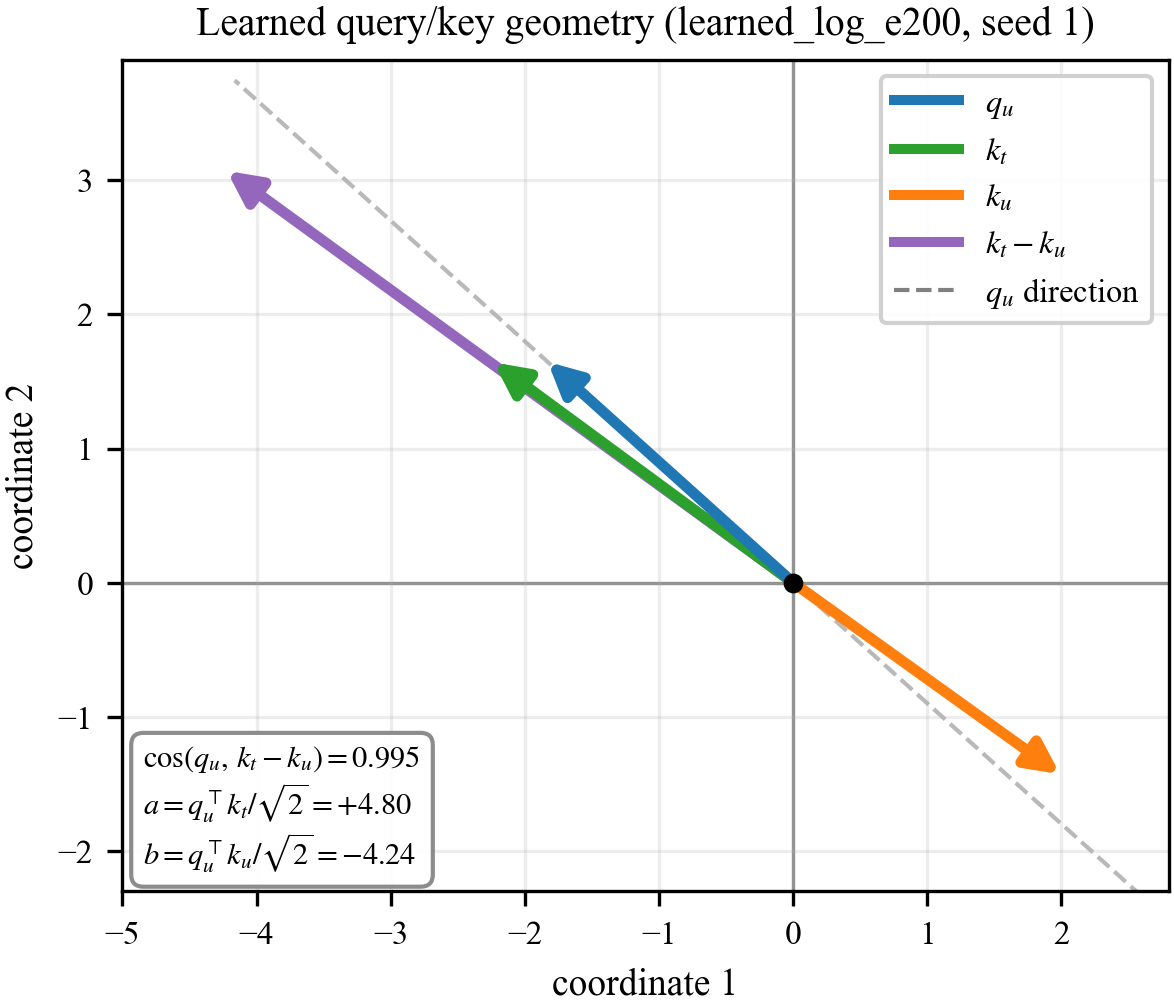
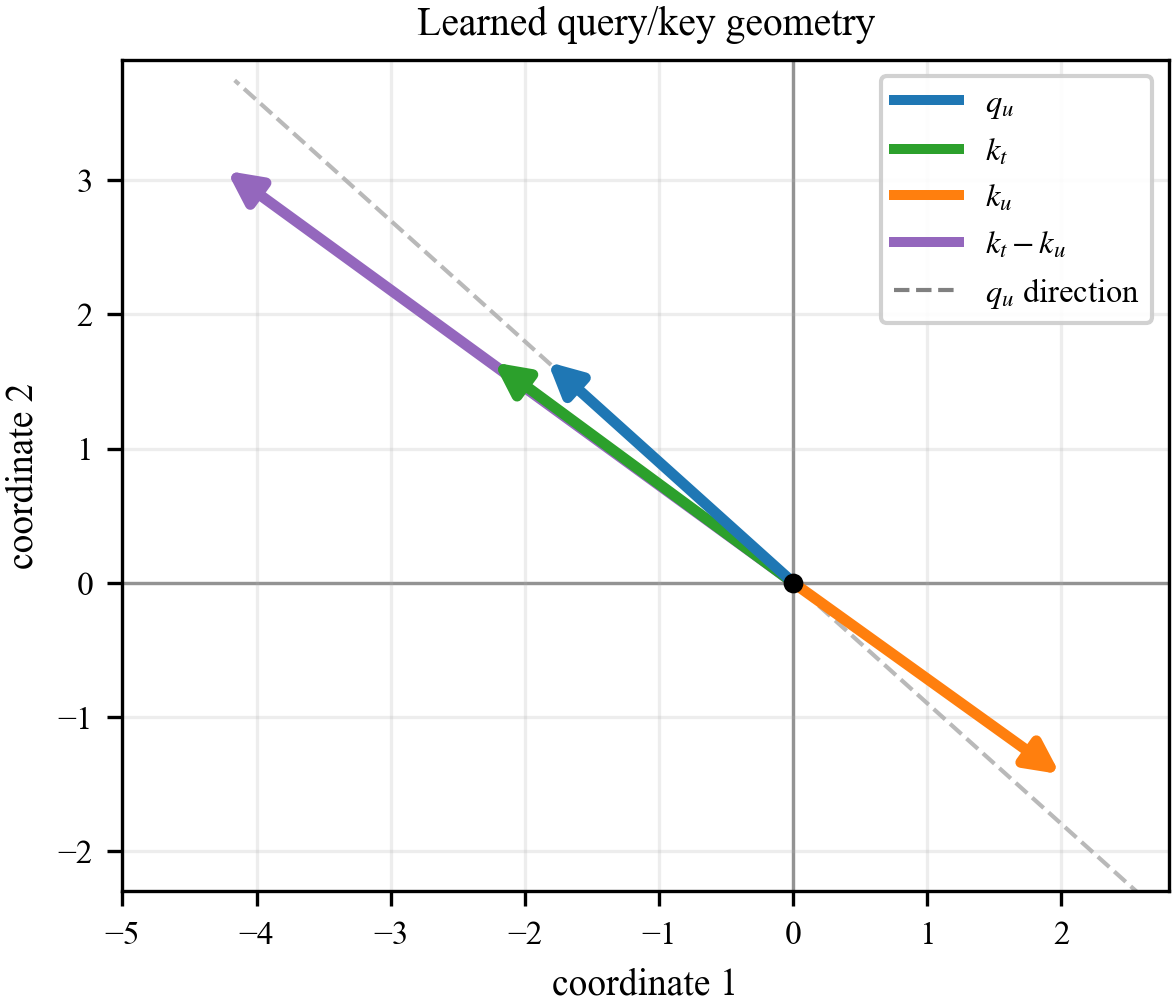
Edit figure title

Changed region(s): [[0.092, 0.7073, 0.368, 0.8919], [0.1533, 0.0, 0.9199, 0.0615], [0.2147, 0.7688, 0.2453, 0.7996]]

diff --git a/infinite_generalization/src/make_mechanism_figure.py b/infinite_generalization/src/make_mechanism_figure.py
@@ -77,21 +77,13 @@ ax.set_ylim(-2.3, 3.9)
 ax.grid(True, alpha=0.22)
 ax.set_xlabel("coordinate 1", fontsize=9)
 ax.set_ylabel("coordinate 2", fontsize=9)
-ax.set_title("Learned query/key geometry (learned_log_e200, seed 1)", fontsize=9.5)
+ax.set_title("Learned query/key geometry", fontsize=9.5)
 ax.tick_params(labelsize=8)
 
 # legend carries identity (arrows bunch, so direct labels would collide)
 handles = [Line2D([0], [0], color=col, lw=2.4, label=lab) for lab, _v, col in VECS]
 handles.append(Line2D([0], [0], color="gray", ls="--", lw=1.0, label="$q_u$ direction"))
 ax.legend(handles=handles, loc="upper right", fontsize=7.8, framealpha=0.9)
-
-# numeric facts, tying the picture to the text
-note = (r"$\cos(q_u,\,k_t-k_u)=0.995$" + "\n"
-        r"$a=q_u^\top k_t/\sqrt{2}=+4.80$" + "\n"
-        r"$b=q_u^\top k_u/\sqrt{2}=-4.24$")
-ax.text(0.02, 0.02, note, transform=ax.transAxes, fontsize=7.3,
-        va="bottom", ha="left",
-        bbox=dict(boxstyle="round,pad=0.4", fc="white", ec="gray", alpha=0.9))
 
 pdf_path = OUT / "final_report_mechanism_vectors.pdf"
 png_path = OUT / "final_report_mechanism_vectors.png"